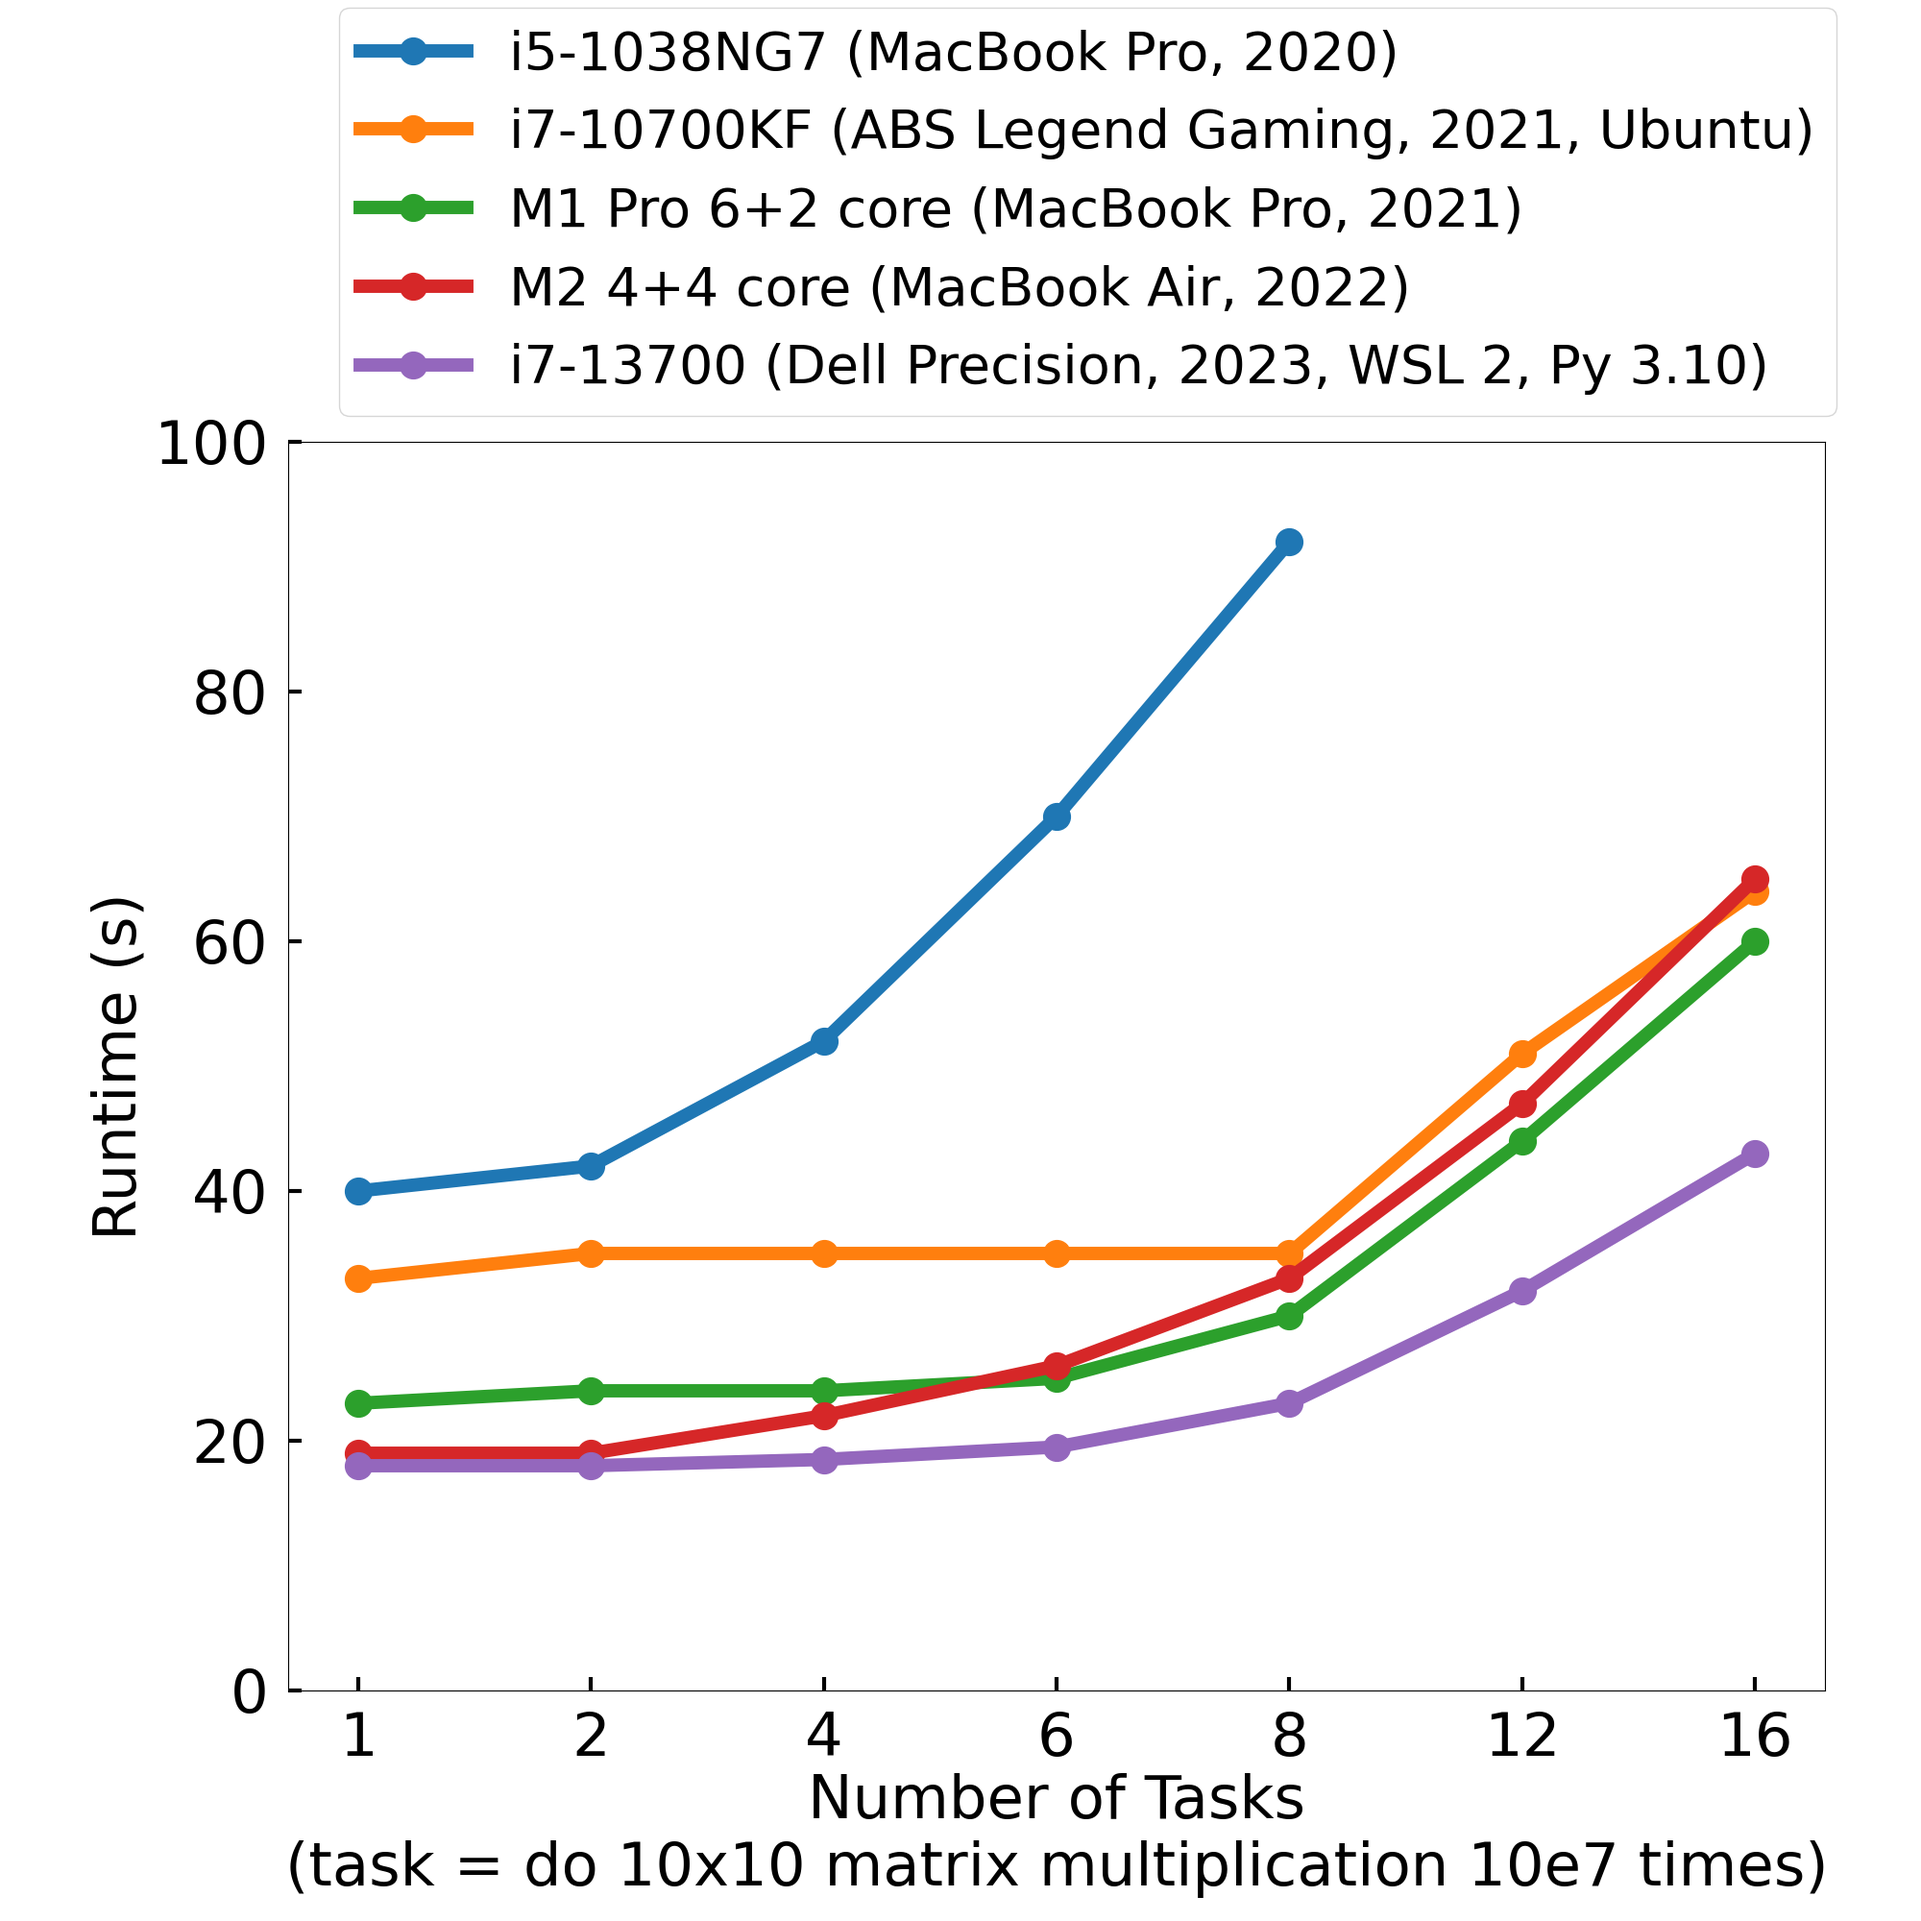
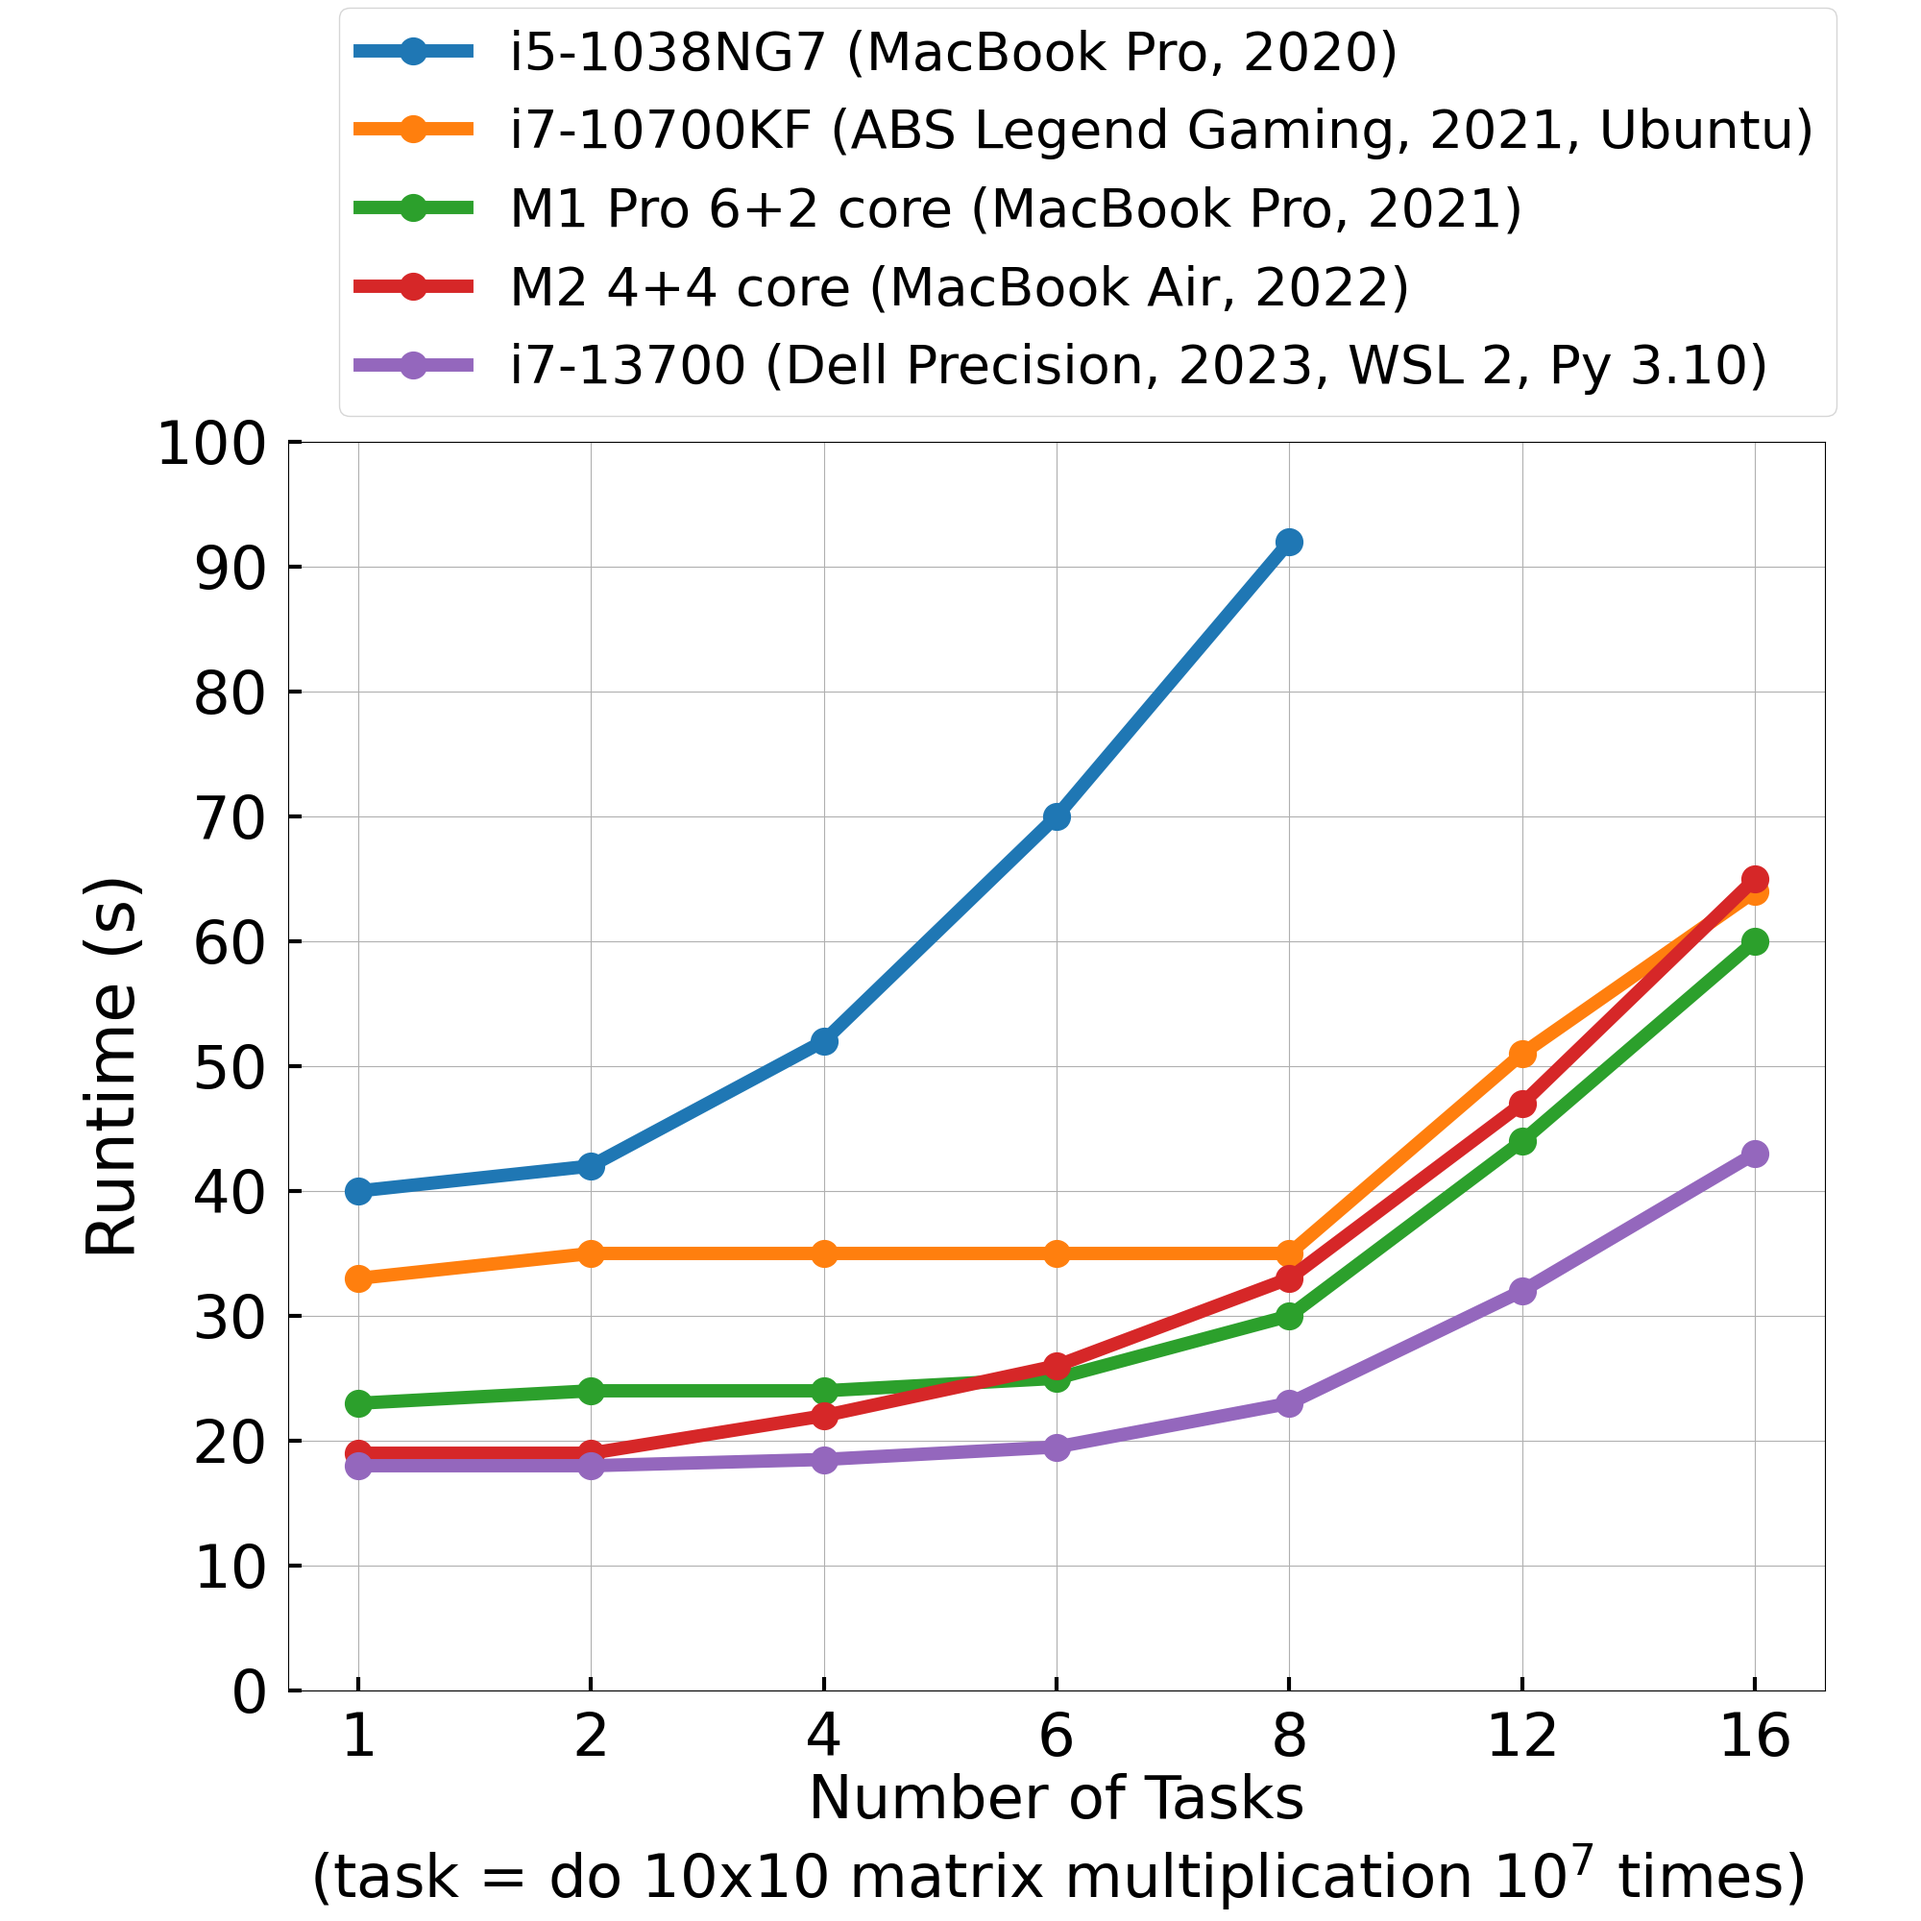
update plot

diff --git a/plot.py b/plot.py
@@ -21,11 +21,14 @@ def plot():
     ax.plot(np.arange(len(y5)), y5, marker='o', markersize=20, label='M2 4+4 core (MacBook Air, 2022)')
     ax.plot(np.arange(len(y6)), y6, marker='o', markersize=20, label='i7-13700 (Dell Precision, 2023, WSL 2, Py 3.10)')
     fig.legend(ncol=1, fontsize=40, bbox_to_anchor=(0.97, 1.01))
+    ax.grid()
     ax.set_xticks(np.arange(len(X)))
     ax.set_xticklabels([str(x) for x in X])
-    ax.set_xlabel('Number of Tasks\n(task = do 10x10 matrix multiplication 10e7 times)')
-    ax.set_ylabel('Runtime (s)')
+    ax.set_xlabel('Number of Tasks\n(task = do 10x10 matrix multiplication $10^7$ times)')
+    ax.set_ylabel('Runtime (s)', fontsize=50)
     ax.set_ylim([0, 100])
+    y_ticks = list(range(0, 110, 10))
+    ax.set_yticks(y_ticks)
     ax.tick_params(axis='x', direction='in', length=10, width=3, pad=15)
     ax.tick_params(axis='y', direction='in', length=10, width=3, pad=15)
     fig.savefig('cpu_perf.png')
